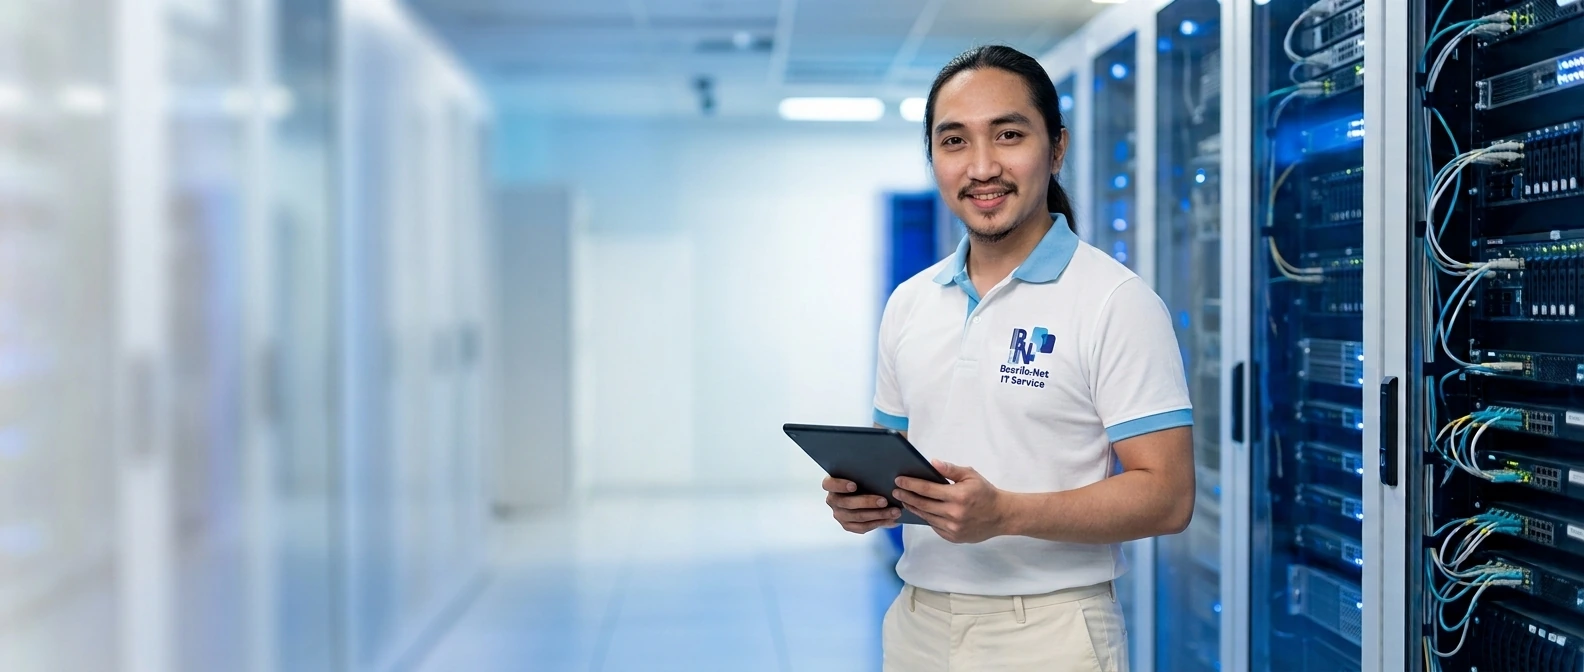
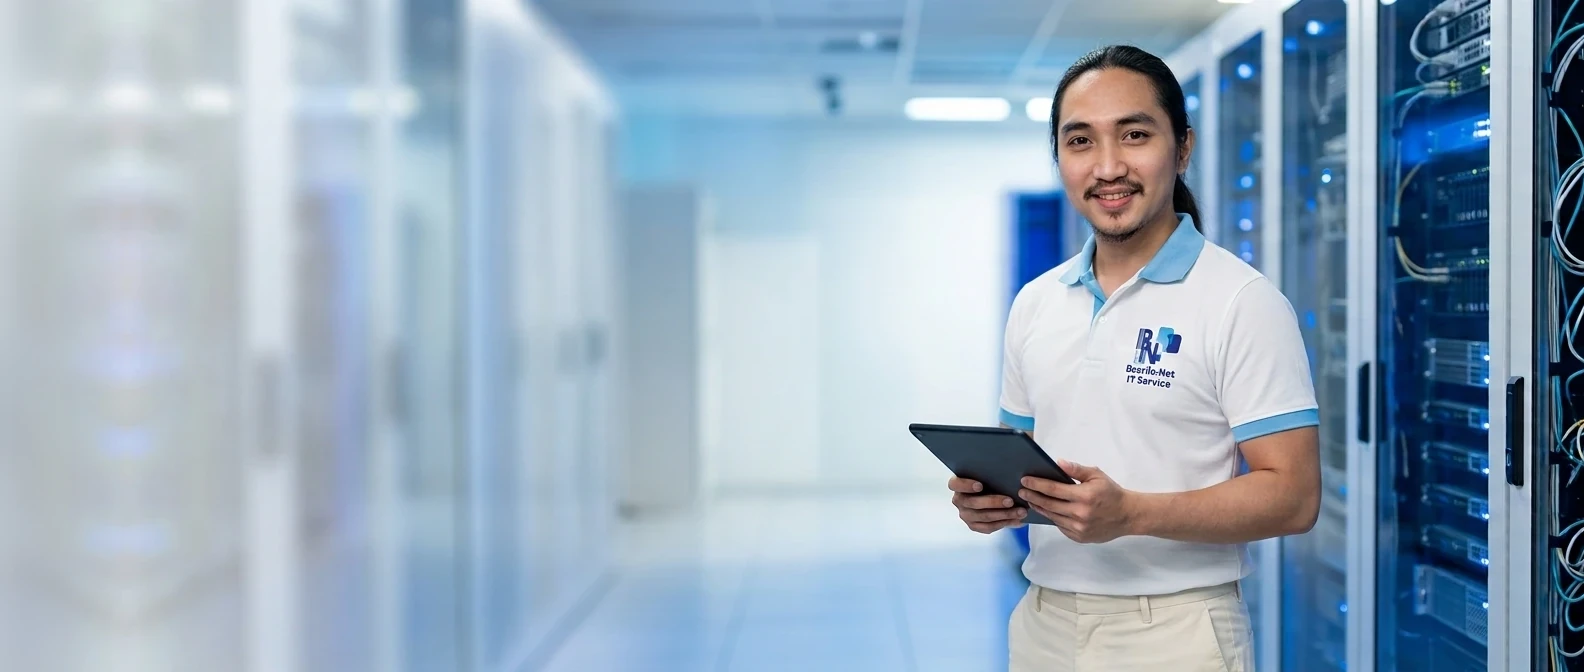
adjust home bg4

diff --git a/css/style.css b/css/style.css
@@ -360,13 +360,13 @@ img {
 
 @media (min-width: 1024px) and (max-width: 1366px) and (orientation: landscape) and (pointer: coarse) {
     .home-section {
-        background-position: 30% center;
+        background-position: 60% center;
     }
 }
 
 @media (min-width: 768px) and (max-width: 1024px) and (orientation: portrait) {
     .home-section {
-        background-position: 45% center;
+        background-position: 55% center;
     }
 }
 
